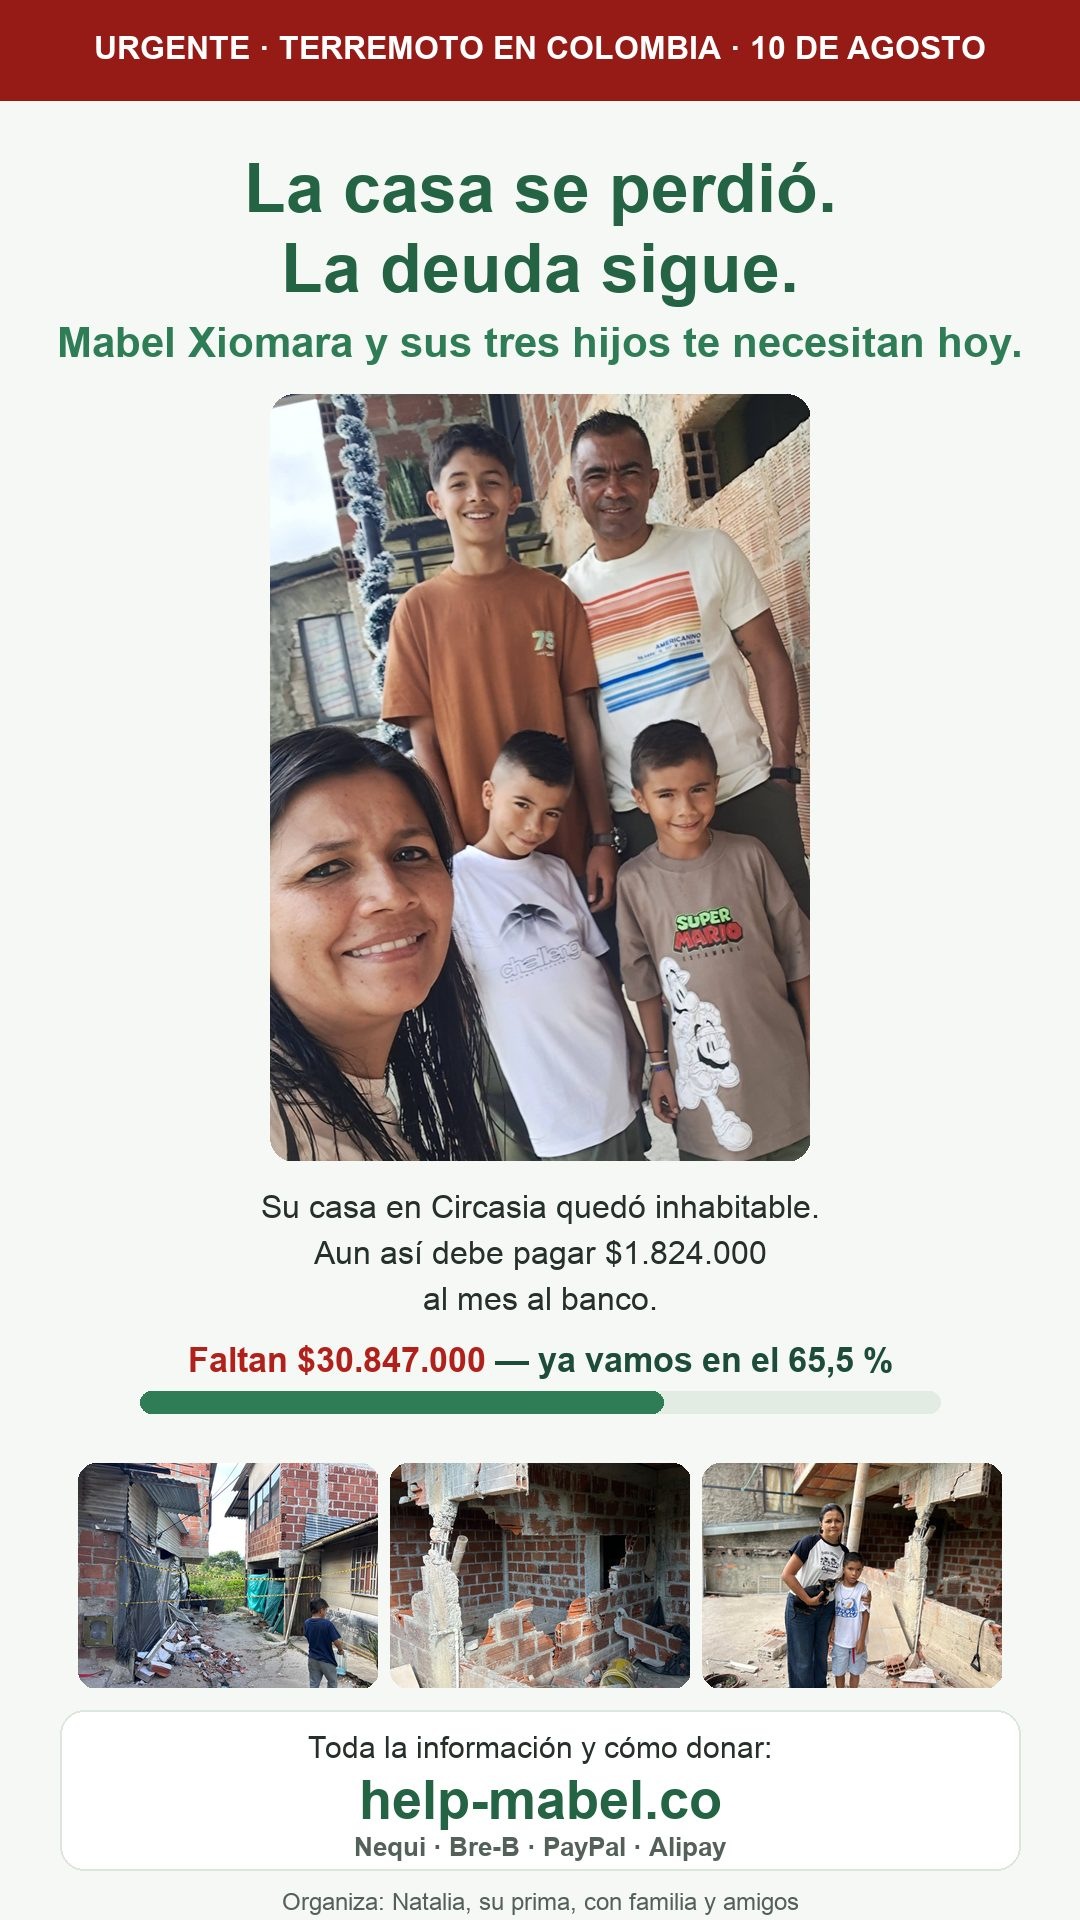
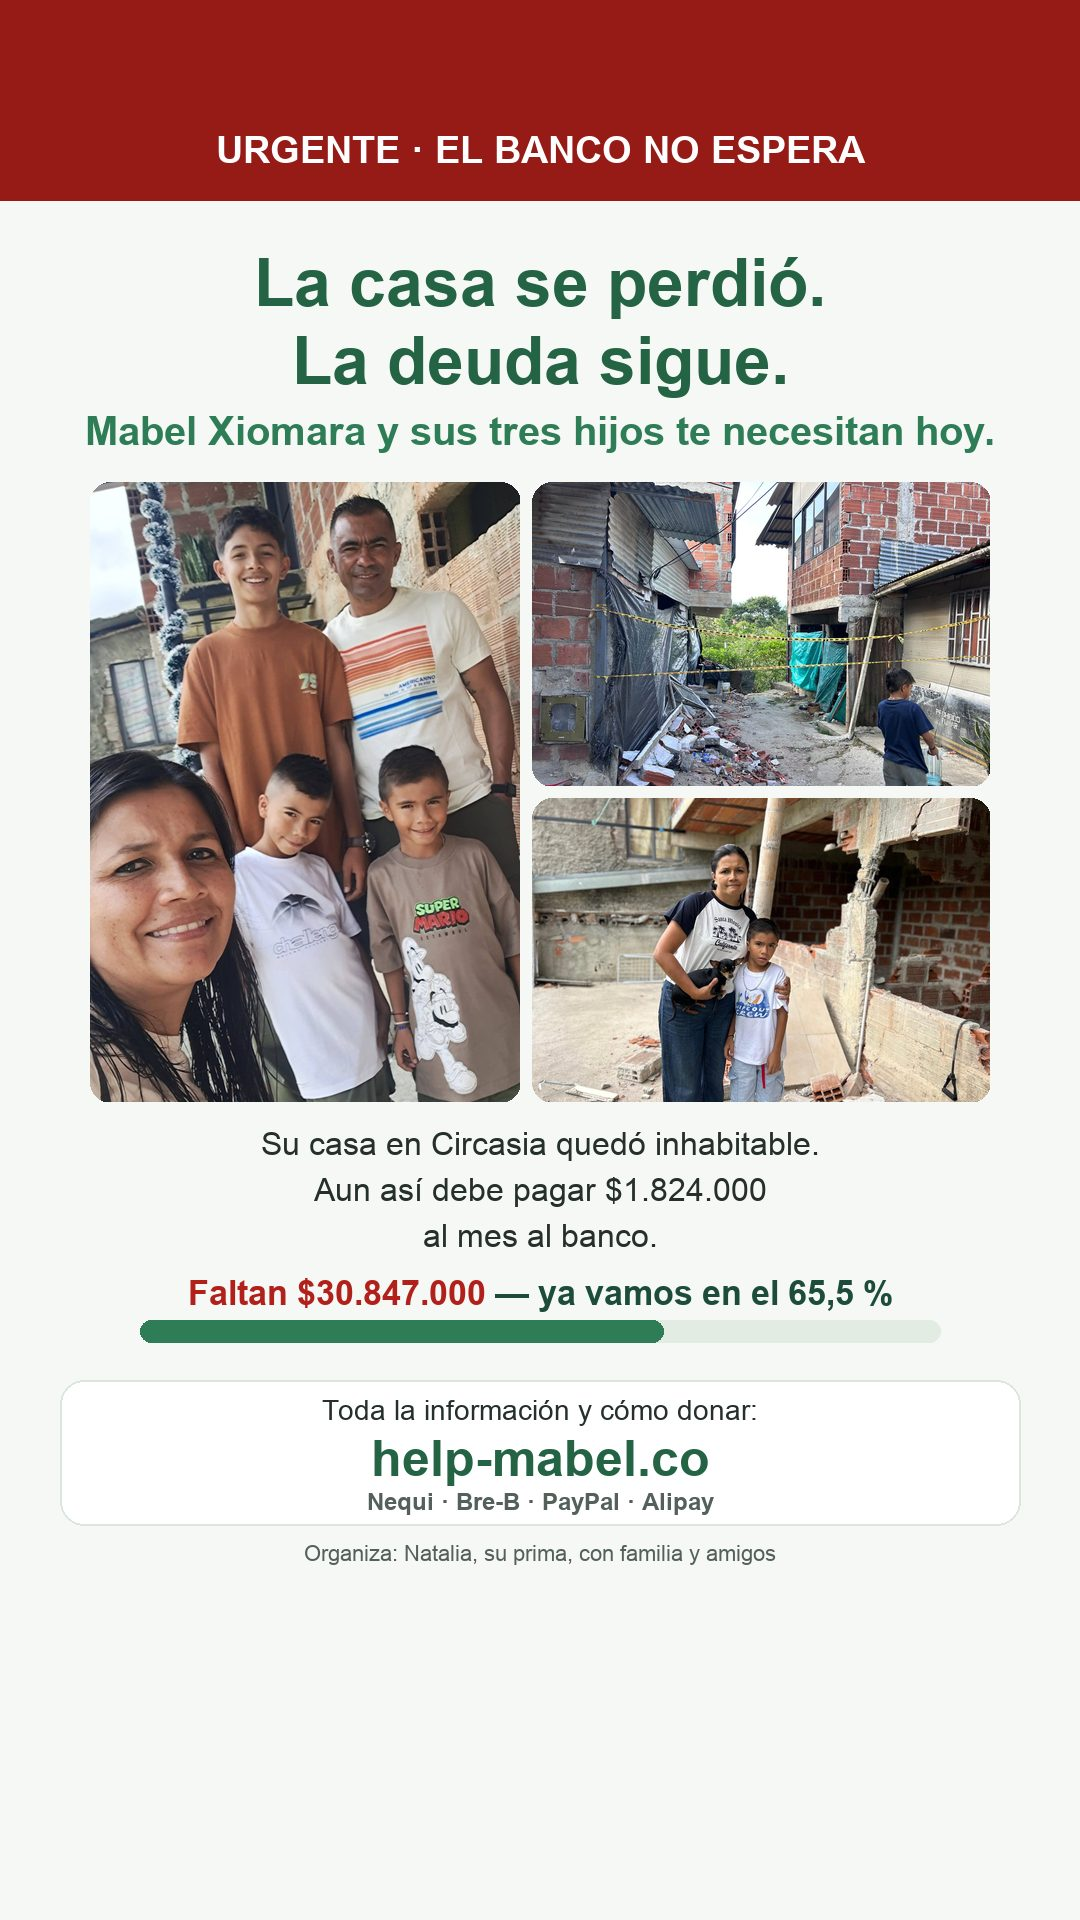
Stories v3 (pedido de Paul): zonas seguras del estado de WhatsApp — banda alta de 200 px con el texto en y≈128 (la cabecera de WA tapa ~110 px) y todo el contenido termina en y≈1565 (el pie de foto + «views» tapan ~1650–1920, medido en photos/IMG_3672.PNG); banda sin terremoto («URGENTE · EL BANCO N
Claude-Session: https://claude.ai/code/session_01MG7BFmp8uWrPs4SjDRqYeU

diff --git a/de/index.html b/de/index.html
@@ -437,7 +437,7 @@ einen Chat oder deine Moments（朋友圈）ein und sende sie.</p>
 function shareStory(el){
   var orig = el.textContent;
   el.textContent = "Bild wird vorbereitet…";
-  fetch("../img/story-de.jpg?v=2").then(function(r){ return r.blob(); }).then(function(b){
+  fetch("../img/story-de.jpg?v=3").then(function(r){ return r.blob(); }).then(function(b){
     var f = new File([b], "hilfe-mabel.jpg", {type: "image/jpeg"});
     if (navigator.canShare && navigator.canShare({files: [f]})) {
       navigator.share({files: [f], text: "Das Haus von Mabel Xiomara in Kolumbien ist durch das Erdbeben verloren, aber die Bankschulden bleiben. So kannst du helfen: https://help-mabel.co/de/"})
@@ -445,9 +445,9 @@ function shareStory(el){
         .catch(function(){ el.textContent = orig; });
     } else {
       el.textContent = "Speichere das Bild und poste es in deiner Story 📲";
-      window.open("../img/story-de.jpg?v=2", "_blank");
+      window.open("../img/story-de.jpg?v=3", "_blank");
     }
-  }).catch(function(){ el.textContent = orig; window.open("../img/story-de.jpg?v=2", "_blank"); });
+  }).catch(function(){ el.textContent = orig; window.open("../img/story-de.jpg?v=3", "_blank"); });
   return false;
 }
 function copyText(t, el, ok){

diff --git a/en/index.html b/en/index.html
@@ -428,7 +428,7 @@ chat or your Moments（朋友圈）and send.</p>
 function shareStory(el){
   var orig = el.textContent;
   el.textContent = "Preparing image…";
-  fetch("../img/story-en.jpg?v=2").then(function(r){ return r.blob(); }).then(function(b){
+  fetch("../img/story-en.jpg?v=3").then(function(r){ return r.blob(); }).then(function(b){
     var f = new File([b], "help-mabel.jpg", {type: "image/jpeg"});
     if (navigator.canShare && navigator.canShare({files: [f]})) {
       navigator.share({files: [f], text: "Mabel Xiomara's home in Colombia was lost in the earthquake, but the bank debt remains. How to help: https://help-mabel.co/en/"})
@@ -436,9 +436,9 @@ function shareStory(el){
         .catch(function(){ el.textContent = orig; });
     } else {
       el.textContent = "Save the image and post it to your story 📲";
-      window.open("../img/story-en.jpg?v=2", "_blank");
+      window.open("../img/story-en.jpg?v=3", "_blank");
     }
-  }).catch(function(){ el.textContent = orig; window.open("../img/story-en.jpg?v=2", "_blank"); });
+  }).catch(function(){ el.textContent = orig; window.open("../img/story-en.jpg?v=3", "_blank"); });
   return false;
 }
 function copyText(t, el, ok){

diff --git a/index.html b/index.html
@@ -449,7 +449,7 @@ un chat o en Momentos（朋友圈）y envíalo.</p>
 function shareStory(el){
   var orig = el.textContent;
   el.textContent = "Preparando imagen…";
-  fetch("img/story-es.jpg?v=2").then(function(r){ return r.blob(); }).then(function(b){
+  fetch("img/story-es.jpg?v=3").then(function(r){ return r.blob(); }).then(function(b){
     var f = new File([b], "ayuda-mabel.jpg", {type: "image/jpeg"});
     if (navigator.canShare && navigator.canShare({files: [f]})) {
       navigator.share({files: [f], text: "La casa de Mabel Xiomara en Circasia se perdió en el terremoto, pero la deuda con el banco sigue. Cómo ayudar: https://help-mabel.co"})
@@ -457,9 +457,9 @@ function shareStory(el){
         .catch(function(){ el.textContent = orig; });
     } else {
       el.textContent = "Guarda la imagen y súbela a tu estado 📲";
-      window.open("img/story-es.jpg?v=2", "_blank");
+      window.open("img/story-es.jpg?v=3", "_blank");
     }
-  }).catch(function(){ el.textContent = orig; window.open("img/story-es.jpg?v=2", "_blank"); });
+  }).catch(function(){ el.textContent = orig; window.open("img/story-es.jpg?v=3", "_blank"); });
   return false;
 }
 function copyText(t, el, ok){
